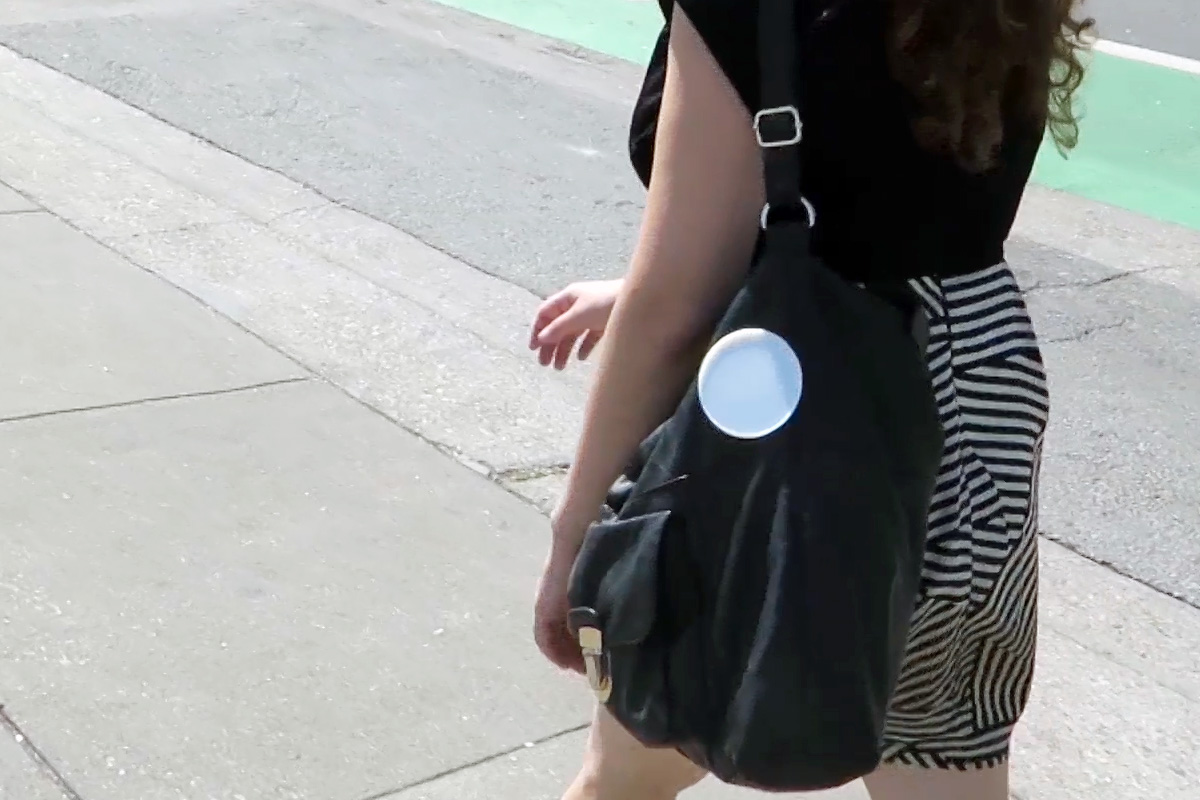
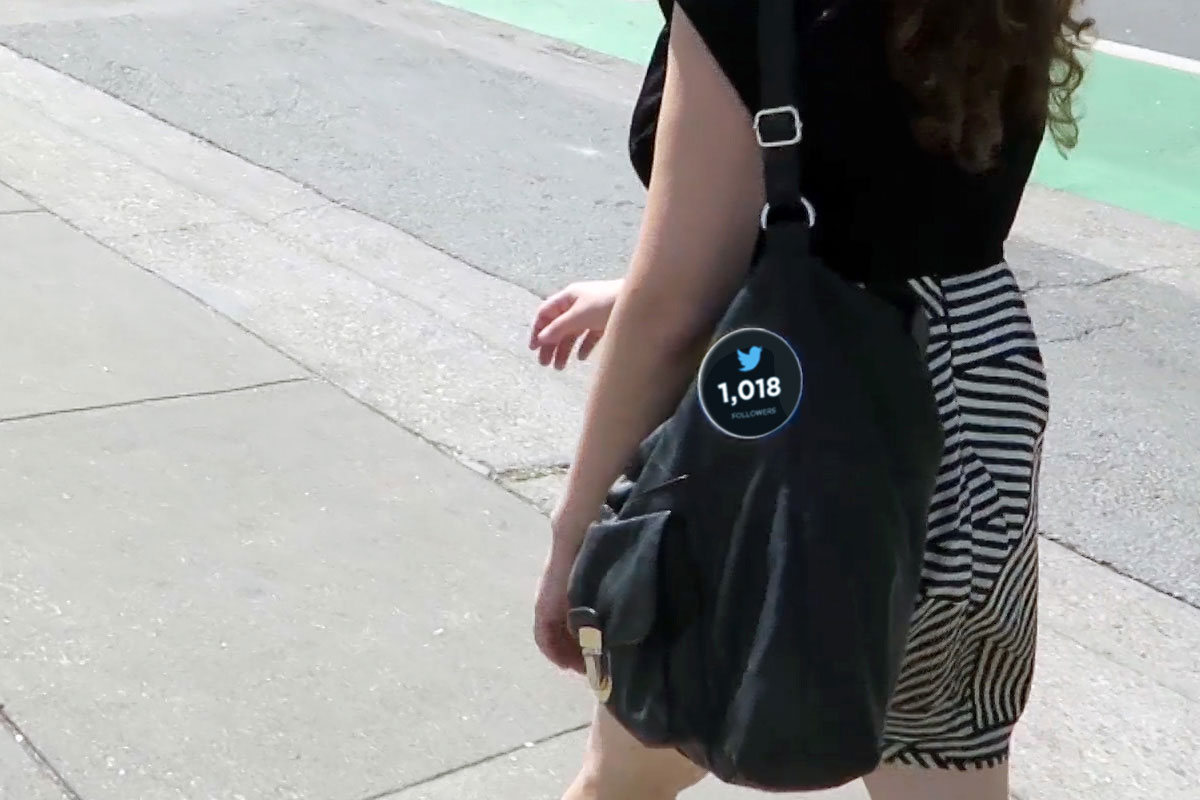
updated text and images

Changed region(s): [[0.5858, 0.4062, 0.6783, 0.5625]]

diff --git a/alternative-wearables/index.html b/alternative-wearables/index.html
@@ -3,43 +3,23 @@
 	<head>
 		<title>Alternative Wearables - A Design Fiction</title>
 		<meta http-equiv="content-type" content="text/html; charset=utf-8" />
-		<meta name="description" content="" />
-		<meta name="keywords" content="" />
+		<meta name="description" content="Five fictional wearable concepts that call attention to what a wearable is, what it can be, and our relationship with it." />
+		<meta name="keywords" content="Design Fiction, Alternative Wearables" />
 		<!--[if lte IE 8]><script src="css/ie/html5shiv.js"></script><![endif]-->
 		<script src="js/jquery.min.js"></script>
 		<link rel="stylesheet" href="css/style.css" />
 		<!--[if lte IE 8]><link rel="stylesheet" href="css/ie/v8.css" /><![endif]-->
 	</head>
 	<body>
-
-		<!-- Header -->
-			<header id="header">
-
-				<!-- Logo -->
-					<h1 id="logo"><a href="#">Alternative Wearables</a></h1>
-
-				<!-- Nav -->
-					<nav id="nav">
-						<ul>
-							<li><a href="#intro">Intro</a></li>
-							<li><a href="#one">What I Do</a></li>
-							<li><a href="#two">Who I Am</a></li>
-							<li><a href="#work">My Work</a></li>
-							<li><a href="#contact">Contact</a></li>
-						</ul>
-					</nav>
-
-			</header>
-
 		<!-- Intro -->
 			<section id="intro" class="main intro dark fullscreen">
 				<div class="content container">
 					<header>
-						<h2><span>Alternative</span> Wearables</h2>
+						<h2><span>Alternative</span> Wearables<br/><small>A Design Fiction</small></h2>
 					</header>
-					<div class="subtitle">A collection of five fictional wearables to call attention to what a wearable is, what it<br/>can be, our relationship with it, and its social implications.</div>
+					<!-- <div class="subtitle">Five fictional wearable concepts that call attention to what a wearable <i>is</i>,<br/>what it can be, and our relationship with it.</div> -->
 					<footer>
-						<a href="#one" class="button play down">More</a>
+						<a href="javascript:void(0)" class="button play down">More</a>
 					</footer>
 				</div>
 				<!-- <a href="#two" class="button style1 down anchored">Next</a> -->
@@ -51,12 +31,11 @@
 					<header>
 						<h3>Why Wearables?</h3>
 					</header>
-					<p>When talking about “wearables” we instantly think of smart watches, wristbands and google glasses. Altogether they painted a perfect future for us, where everything is smart, sleek, and efficient. This singular future picture somehow creates aesthetic fatigue, making us question if there can be other variations to the story.</p>
+					<p>What is a "wearable"? You might be thinking of smart watches, wristbands and google glass. Altogether they painted a perfect future for us, where everything is being tracked and our human abilities greatly enhanced. This singular future picture somehow creates aesthetic fatigue, making us question if there can be other variations to the story.</p>
 
-<p>When can we treat wearables just like the other “wearables” in our life? We don’t wear the same clothes everyday, so maybe it doesn’t make sense to design “a killer wearable” that will work perfectly under every circumstance. </p>
+<p>When can we treat wearables just like the other "wearables" in our life? We don't wear the same clothes everyday, instead we choose what to wear based on specific needs and contexts. So maybe it doesn't make sense to design the "silver bullet wearable" that requires us to wear 24/7 and works perfectly under every circumstance.</p>
 
-<p>In Alternative Wearables - A Design Fiction, we explored five concepts / scenarios for future wearables. It’s not about proposing what wearables will do in the future, or at least not just about that. We want to call attention to what a wearable is, what it can be, our relationship with it, and its social implications.
-</p>
+<p>In <i>Alternative Wearables - A Design Fiction</i>, we present to you five fictional concepts / scenarios for future wearables. We want to call attention to what a wearable is, what it can be, and our relationship with it.</p>
 				</div>
 			</section>
 
@@ -65,9 +44,10 @@
 				<div class="content box">
 					<header>
 						<h3><span>No 1.</span> "Dumb" is the new black.</h3>
+						<div class="title">A switch that makes other smart devices "dumb".</div>
 					</header>
-					<p>Everything is becoming smart, and smarter. The internet of things has formed an invisible web over our life, tracking and monitoring everything we say, do, and even think. This ever-connectedness brings convenience but also put our privacy at risk before we even know it.</p>
-					<p>Ever miss the old days when things are dumber? No.1 “dumbifies” all smart devices within 3 feet around you and brings you a moment of isolation. No concerns of being tracked and no incoming notifications from your attention-grabbing smart devices. Enjoy your “offline” time, until you’re ready to go “online” again.</p>
+					<p>We've heard about the wearable that makes a dumb thing smart. But what happens when everything is smart? When there're more attention grabbers and more risk of losing your privacy to hidden tracking devices?</p>
+					<p>We designed a ring that "dumbifies" all smart devices within 3 feet around you by a simple switch. Enjoy your "offline" time, until you're ready to go "online" again.</p>
 				</div>
 			</section>
 
@@ -76,9 +56,10 @@
 				<div class="content box">
 					<header>
 						<h3><span>No 2.</span> Be aware of your social douchiness.</h3>
+						<div class="title">A social personality indicator that keeps you humble.</div>
 					</header>
-					<p>Wearables like Google glasses have given rise to “social douchiness”, meaning that people become arrogant, self-absorbed assholes that have problems with normal social interactions. We propose an alternative wearable that helps you look inward and watch out for your potential “douchiness”.</p>
-					<p>No.2 can be easily attached to your clothes and by monitoring your conversation with another person, provide you feedback through vibrations so that you know “ I’ve been talking too much and might look full of myself. It’s time to shut up.”</p>
+					<p>Wearables like Google glass have given rise to "social douchiness", meaning that people become arrogant, self-absorbed assholes that have problems with normal social interactions. We designed a humble wearable that helps you look inward and watch out for your potential "douchiness".</p>
+					<p>It easily clicks to your clothes and monitors your conversation with another person. It provides you feedback through vibrations so that you know "I've been talking too much and might look full of myself. It's time to shut up." It's perfect for interviews, first date, and other occasions where you care about how your personality come through.</p>
 				</div>
 			</section>
 
@@ -87,9 +68,10 @@
 				<div class="content box">
 					<header>
 						<h3><span>No 3.</span> Wear it out. Show it off.</h3>
+						=
 					</header>
-					<p>Whatever we wear is a fashion statement. Think about the traditional wearables, like a piece of clothes. We wear them not just because of functional reasons. Sometimes we even wear clothes that are neither warm nor comfortable, just to complete “the look”. We don’t wear things only for ourselves; we wear things for other people to see. </p>
-					<p>Why does a wearable have to be “functional”? Or who says “showing off” can’t be a valid function? No.3 is a badge that you can either wear or attach to your backpack. It broadcasts your facebook likes or number of retweets based on your customization. Yes it does nothing but showing off your social popularity.</p>
+					<p>Whatever we wear is a fashion statement. Think about the traditional wearables, like clothes, or jewelry. We don't wear things only for ourselves; we wear things for other people to see.</p>
+					<p>Who says "showing off" can't be a valid function? We designed the ultimate show-off:  a badge that broadcasts in real time your facebook likes or number of retweets based on your customization. What's wrong with showing off your social popularity?</p>
 				</div>
 			</section>
 
@@ -97,10 +79,11 @@
 			<section id="wrist" class="main style2 right fullscreen">
 				<div class="content box">
 					<header>
-						<h3><span>No 4.</span> Find “Zen” in Killing Time</h3>
+						<h3><span>No 4.</span> The non-verbal wearable.</h3>
+						<div class="title">A bubble-wrap wristband that helps you destress.</div>
 					</header>
-					<p>Maintaining our physical and mental well-being is an important task in our life but it’s not always about tracking data and achieving goals. The future of healthcare wearable will speak a non-verbal language: instead of showing you numbers, it hugs your body through a sensual interface, soothing your nerves and bringing you peace of mind.</p>
-					<p>No. 4 detects your stress and reminds you to meditate. It forms bubbles on its surface much like a bubble wrap. Keep pressing the bubbles until your stress is relieved. You can also activate the bubbles directly when you have some time to kill. Who doesn’t like poking bubbles?</p>
+					<p>Maintaining our physical and mental well-being is not always about tracking/displaying data and achieving goals. We designed a wristband that speaks a non-verbal language: instead of showing you numbers, it hugs your body through a sensual interface, soothing your nerves and bringing you peace of mind.</p>
+					<p>It detects your stress and forms bubbles on its surface much like a bubble wrap. Keep pressing the bubbles until your stress is relieved. Or just play with it when you have some time to kill. Who doesn't like poking bubbles?</p>
 				</div>
 			</section>
 		<!-- No 5 -->
@@ -108,9 +91,10 @@
 				<div class="content box">
 					<header>
 						<h3><span>No 5.</span> Temporary wearable for temporary need.</h3>
+						<div class="title">A sticker designed to go away.</div>
 					</header>
-					<p>We wear things for temporary needs: think about bondage, maxi pad, and contact lenses. We don’t carry them all the time, but when the time comes, they can be most helpful. They’re disposable, so they don’t require constant attention from us. They just do the work, and when their mission is fulfilled, or their term of validity is over, they go away.</p>
-					<p>Expresso Express  is a small sticker that you stick to your temple when you feel drowsy. It brings you instant mental clarity just like a shot of Expresso.</p>
+					<p>We wear things for temporary needs: think about bondage, maxi pad, and contact lenses. They're disposable, so they don't require constant attention from us. They just do the work, and when their mission is fulfilled, or their term of validity is over, they go away.</p>
+					<p>We designed a disposable wearable that you can stick to your temple when you feel drowsy. It brings you instant mental clarity just like a shot of Expresso. And when you feel better, just throw it away.</p>
 				</div>
 			</section>
 
@@ -122,9 +106,10 @@
 
 				     Use anything from here: http://fortawesome.github.io/Font-Awesome/cheatsheet/)
 				-->
-					<ul class="actions">
-						<li><a href="#" class="fa solo fa-twitter"><span>Twitter</span></a></li>
-					</ul>
+					<div class="actions">
+						<a href="https://twitter.com/share" class="twitter-share-button" data-size="large">Tweet</a>
+						<script>!function(d,s,id){var js,fjs=d.getElementsByTagName(s)[0],p=/^http:/.test(d.location)?'http':'https';if(!d.getElementById(id)){js=d.createElement(s);js.id=id;js.src=p+'://platform.twitter.com/widgets.js';fjs.parentNode.insertBefore(js,fjs);}}(document, 'script', 'twitter-wjs');</script>
+					</div>
 
 				<!-- Menu -->
 					<ul class="menu">

diff --git a/alternative-wearables/css/style.css b/alternative-wearables/css/style.css
@@ -111,7 +111,7 @@ font-style:normal;
 
 	h3 {
 		font-size: 1.5em;
-		line-height: 1.25em;
+		margin:0.5em 0;
 	}
 
 	strong, b {
@@ -156,19 +156,25 @@ font-style:normal;
 		font-style: italic;
 	}
 
-	p, ul, ol, dl, table {
+	ul, ol, dl, table {
 		margin-bottom: 1em;
 	}
 
 	header {
-		margin-bottom: 1em;
+		margin-bottom: 0em;
 	}
 
 		header p {
 			display: block;
-			margin: 1em 0 0 0;
-			padding: 0 0 0.5em 0;
 		}
+	header .title{
+		font-size: 0.9em;
+		line-height: 100%;
+		font-weight: 500;
+		margin-bottom:0.5em;
+		font-style: italic;
+		color:#888;
+	}
 
 	footer {
 		margin-top: 2em;
@@ -571,9 +577,17 @@ font-style:normal;
 
 				.main.intro h2 {
 					font-size: 2.5em;
-					line-height: 0.5em;
+					line-height: 1em;
 					letter-spacing: -4px;
+					margin-bottom:0.5em;
 				}
+
+				.main.intro h2 small{
+					font-size: 0.6em;
+					font-weight:100;
+					letter-spacing: 0;
+				}
+
 
 				.main.intro .content {
 					opacity: 1.0;
@@ -724,9 +738,9 @@ font-style:normal;
 	}
 
 	#intro .subtitle{
-		font-size:1em;
+		font-size:.85em;
+		line-height:1.3em;
 	}
-
 
 /*********************************************************************************/
 /* One                                                                           */
